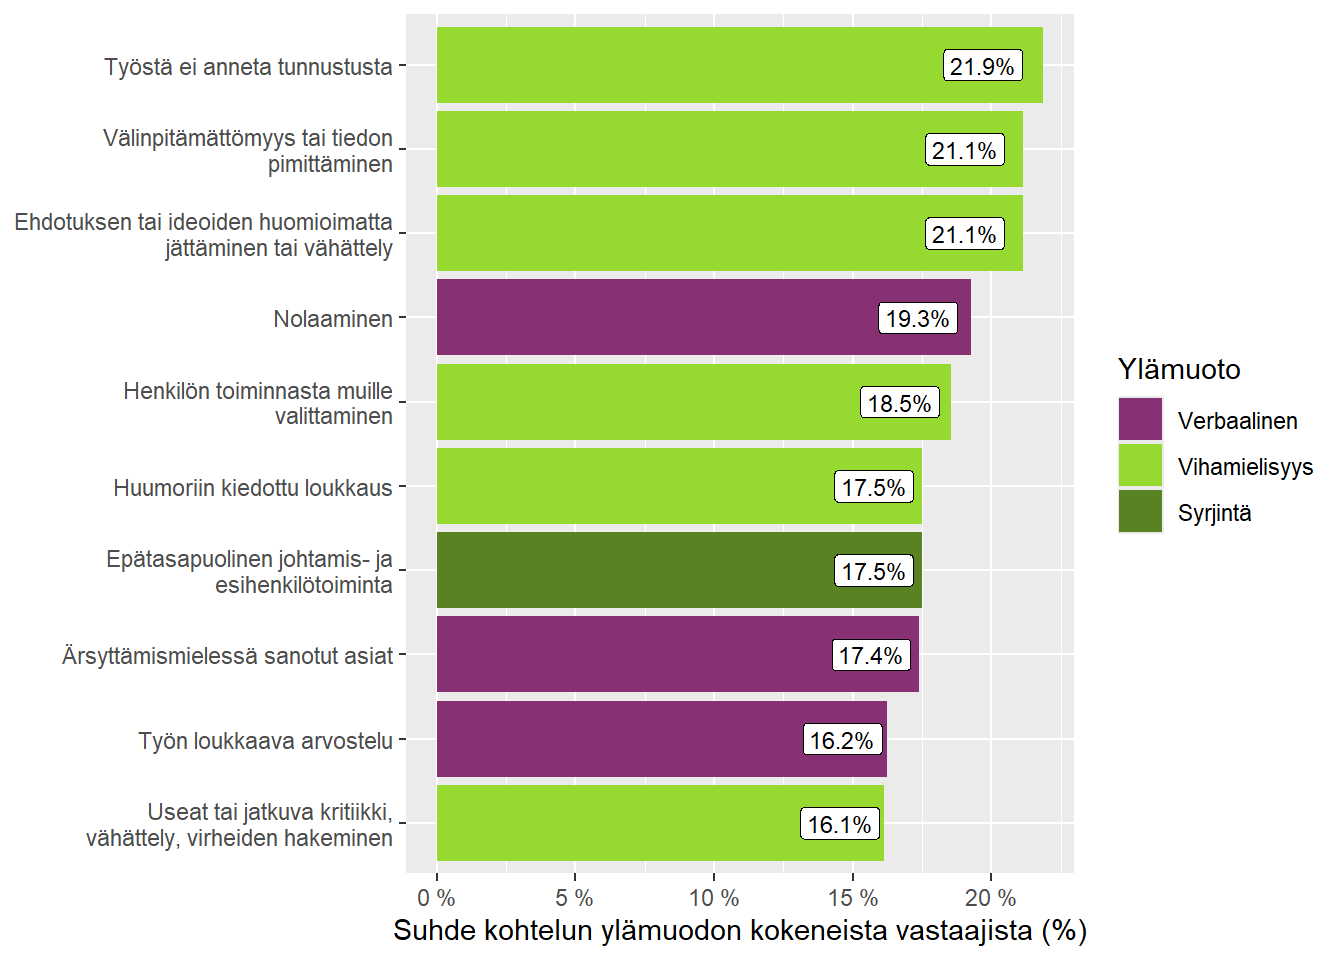
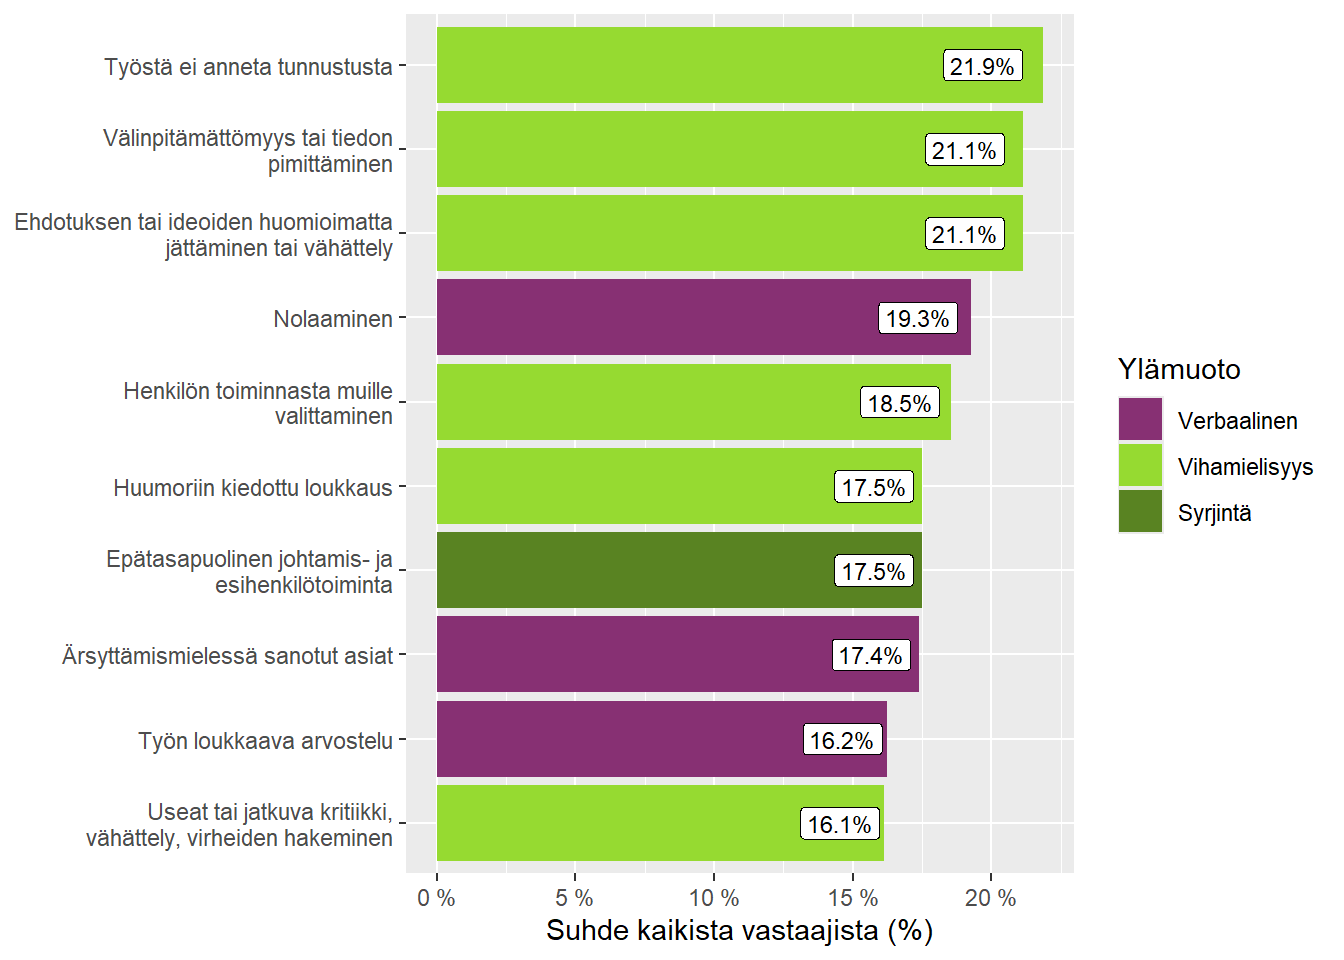
Korjaa yleisimpien alamuotojen kuvioiden otsikot

Changed region(s): [[0.2812, 0.9375, 0.8125, 1.0]]

diff --git a/docs/esiintyvyys.html b/docs/esiintyvyys.html
@@ -1628,7 +1628,7 @@ pre > code.sourceCode > span > a:first-child::before { text-decoration: underlin
 <span id="cb10-163"><a href="#cb10-163" aria-hidden="true" tabindex="-1"></a>    )</span>
 <span id="cb10-164"><a href="#cb10-164" aria-hidden="true" tabindex="-1"></a>  )</span>
 <span id="cb10-165"><a href="#cb10-165" aria-hidden="true" tabindex="-1"></a></span>
-<span id="cb10-166"><a href="#cb10-166" aria-hidden="true" tabindex="-1"></a><span class="co"># Sisäisen kohtelun kymmenen yleisintä kokemusmuotoa (% kohtelumuodon kokeneista vastaajista)</span></span>
+<span id="cb10-166"><a href="#cb10-166" aria-hidden="true" tabindex="-1"></a><span class="co"># Sisäisen kohtelun kymmenen yleisintä kokemusmuotoa</span></span>
 <span id="cb10-167"><a href="#cb10-167" aria-hidden="true" tabindex="-1"></a>yleisimmat.sisa <span class="sc">|&gt;</span></span>
 <span id="cb10-168"><a href="#cb10-168" aria-hidden="true" tabindex="-1"></a>  <span class="fu">ggplot</span>(<span class="fu">aes</span>(</span>
 <span id="cb10-169"><a href="#cb10-169" aria-hidden="true" tabindex="-1"></a>    <span class="at">x =</span> prop,</span>
@@ -1641,7 +1641,7 @@ pre > code.sourceCode > span > a:first-child::before { text-decoration: underlin
 <span id="cb10-176"><a href="#cb10-176" aria-hidden="true" tabindex="-1"></a>    <span class="at">decimal.mark =</span> <span class="st">","</span></span>
 <span id="cb10-177"><a href="#cb10-177" aria-hidden="true" tabindex="-1"></a>  )) <span class="sc">+</span> </span>
 <span id="cb10-178"><a href="#cb10-178" aria-hidden="true" tabindex="-1"></a>  <span class="fu">labs</span>(</span>
-<span id="cb10-179"><a href="#cb10-179" aria-hidden="true" tabindex="-1"></a>    <span class="at">x =</span> <span class="st">"Suhde kohtelun ylämuodon kokeneista vastaajista (%)"</span>,</span>
+<span id="cb10-179"><a href="#cb10-179" aria-hidden="true" tabindex="-1"></a>    <span class="at">x =</span> <span class="st">"Suhde kaikista vastaajista (%)"</span>,</span>
 <span id="cb10-180"><a href="#cb10-180" aria-hidden="true" tabindex="-1"></a>    <span class="at">fill =</span> <span class="st">"Ylämuoto"</span></span>
 <span id="cb10-181"><a href="#cb10-181" aria-hidden="true" tabindex="-1"></a>  ) <span class="sc">+</span> </span>
 <span id="cb10-182"><a href="#cb10-182" aria-hidden="true" tabindex="-1"></a>  <span class="fu">theme</span>(<span class="at">axis.title.y =</span> <span class="fu">element_blank</span>()) <span class="sc">+</span> </span>
@@ -1805,7 +1805,7 @@ pre > code.sourceCode > span > a:first-child::before { text-decoration: underlin
 <span id="cb10-340"><a href="#cb10-340" aria-hidden="true" tabindex="-1"></a>    )</span>
 <span id="cb10-341"><a href="#cb10-341" aria-hidden="true" tabindex="-1"></a>  )</span>
 <span id="cb10-342"><a href="#cb10-342" aria-hidden="true" tabindex="-1"></a></span>
-<span id="cb10-343"><a href="#cb10-343" aria-hidden="true" tabindex="-1"></a><span class="co"># Ulkoisen kohtelun kymmenen yleisintä kokemusmuotoa (% kohtelumuodon kokeneista vastaajista)</span></span>
+<span id="cb10-343"><a href="#cb10-343" aria-hidden="true" tabindex="-1"></a><span class="co"># Ulkoisen kohtelun kymmenen yleisintä kokemusmuotoa</span></span>
 <span id="cb10-344"><a href="#cb10-344" aria-hidden="true" tabindex="-1"></a>yleisimmat.ulko <span class="sc">|&gt;</span></span>
 <span id="cb10-345"><a href="#cb10-345" aria-hidden="true" tabindex="-1"></a>  <span class="fu">ggplot</span>(<span class="fu">aes</span>(</span>
 <span id="cb10-346"><a href="#cb10-346" aria-hidden="true" tabindex="-1"></a>    <span class="at">x =</span> prop,</span>
@@ -1818,7 +1818,7 @@ pre > code.sourceCode > span > a:first-child::before { text-decoration: underlin
 <span id="cb10-353"><a href="#cb10-353" aria-hidden="true" tabindex="-1"></a>    <span class="at">decimal.mark =</span> <span class="st">","</span></span>
 <span id="cb10-354"><a href="#cb10-354" aria-hidden="true" tabindex="-1"></a>  )) <span class="sc">+</span> </span>
 <span id="cb10-355"><a href="#cb10-355" aria-hidden="true" tabindex="-1"></a>  <span class="fu">labs</span>(</span>
-<span id="cb10-356"><a href="#cb10-356" aria-hidden="true" tabindex="-1"></a>    <span class="at">x =</span> <span class="st">"Suhde kohtelun ylämuodon kokeneista vastaajista (%)"</span>,</span>
+<span id="cb10-356"><a href="#cb10-356" aria-hidden="true" tabindex="-1"></a>    <span class="at">x =</span> <span class="st">"Suhde kaikista vastaajista (%)"</span>,</span>
 <span id="cb10-357"><a href="#cb10-357" aria-hidden="true" tabindex="-1"></a>    <span class="at">fill =</span> <span class="st">"Ylämuoto"</span></span>
 <span id="cb10-358"><a href="#cb10-358" aria-hidden="true" tabindex="-1"></a>  ) <span class="sc">+</span> </span>
 <span id="cb10-359"><a href="#cb10-359" aria-hidden="true" tabindex="-1"></a>  <span class="fu">theme</span>(<span class="at">axis.title.y =</span> <span class="fu">element_blank</span>()) <span class="sc">+</span> </span>
@@ -3331,7 +3331,7 @@ pre > code.sourceCode > span > a:first-child::before { text-decoration: underlin
 <span id="cb25-164"><a href="#cb25-164" aria-hidden="true" tabindex="-1"></a>    )</span>
 <span id="cb25-165"><a href="#cb25-165" aria-hidden="true" tabindex="-1"></a>  )</span>
 <span id="cb25-166"><a href="#cb25-166" aria-hidden="true" tabindex="-1"></a></span>
-<span id="cb25-167"><a href="#cb25-167" aria-hidden="true" tabindex="-1"></a><span class="co"># Sisäisen kohtelun kymmenen yleisintä kokemusmuotoa (% kohtelumuodon havanneista vastaajista)</span></span>
+<span id="cb25-167"><a href="#cb25-167" aria-hidden="true" tabindex="-1"></a><span class="co"># Sisäisen kohtelun kymmenen yleisintä kokemusmuotoa</span></span>
 <span id="cb25-168"><a href="#cb25-168" aria-hidden="true" tabindex="-1"></a>yleisimmat.sisa <span class="sc">|&gt;</span></span>
 <span id="cb25-169"><a href="#cb25-169" aria-hidden="true" tabindex="-1"></a>  <span class="fu">ggplot</span>(<span class="fu">aes</span>(</span>
 <span id="cb25-170"><a href="#cb25-170" aria-hidden="true" tabindex="-1"></a>    <span class="at">x =</span> prop,</span>
@@ -3344,7 +3344,7 @@ pre > code.sourceCode > span > a:first-child::before { text-decoration: underlin
 <span id="cb25-177"><a href="#cb25-177" aria-hidden="true" tabindex="-1"></a>    <span class="at">decimal.mark =</span> <span class="st">","</span></span>
 <span id="cb25-178"><a href="#cb25-178" aria-hidden="true" tabindex="-1"></a>  )) <span class="sc">+</span> </span>
 <span id="cb25-179"><a href="#cb25-179" aria-hidden="true" tabindex="-1"></a>  <span class="fu">labs</span>(</span>
-<span id="cb25-180"><a href="#cb25-180" aria-hidden="true" tabindex="-1"></a>    <span class="at">x =</span> <span class="st">"Suhde kohtelun ylämuodon havanneista vastaajista (%)"</span>,</span>
+<span id="cb25-180"><a href="#cb25-180" aria-hidden="true" tabindex="-1"></a>    <span class="at">x =</span> <span class="st">"Suhde kaikista vastaajista (%)"</span>,</span>
 <span id="cb25-181"><a href="#cb25-181" aria-hidden="true" tabindex="-1"></a>    <span class="at">fill =</span> <span class="st">"Ylämuoto"</span></span>
 <span id="cb25-182"><a href="#cb25-182" aria-hidden="true" tabindex="-1"></a>  ) <span class="sc">+</span> </span>
 <span id="cb25-183"><a href="#cb25-183" aria-hidden="true" tabindex="-1"></a>  <span class="fu">theme</span>(<span class="at">axis.title.y =</span> <span class="fu">element_blank</span>()) <span class="sc">+</span> </span>
@@ -3508,7 +3508,7 @@ pre > code.sourceCode > span > a:first-child::before { text-decoration: underlin
 <span id="cb25-341"><a href="#cb25-341" aria-hidden="true" tabindex="-1"></a>    )</span>
 <span id="cb25-342"><a href="#cb25-342" aria-hidden="true" tabindex="-1"></a>  )</span>
 <span id="cb25-343"><a href="#cb25-343" aria-hidden="true" tabindex="-1"></a></span>
-<span id="cb25-344"><a href="#cb25-344" aria-hidden="true" tabindex="-1"></a><span class="co"># Ulkoisen kohtelun kymmenen yleisintä kokemusmuotoa (% kohtelumuodon havanneista vastaajista)</span></span>
+<span id="cb25-344"><a href="#cb25-344" aria-hidden="true" tabindex="-1"></a><span class="co"># Ulkoisen kohtelun kymmenen yleisintä kokemusmuotoa</span></span>
 <span id="cb25-345"><a href="#cb25-345" aria-hidden="true" tabindex="-1"></a>yleisimmat.ulko <span class="sc">|&gt;</span></span>
 <span id="cb25-346"><a href="#cb25-346" aria-hidden="true" tabindex="-1"></a>  <span class="fu">ggplot</span>(<span class="fu">aes</span>(</span>
 <span id="cb25-347"><a href="#cb25-347" aria-hidden="true" tabindex="-1"></a>    <span class="at">x =</span> prop,</span>
@@ -3521,7 +3521,7 @@ pre > code.sourceCode > span > a:first-child::before { text-decoration: underlin
 <span id="cb25-354"><a href="#cb25-354" aria-hidden="true" tabindex="-1"></a>    <span class="at">decimal.mark =</span> <span class="st">","</span></span>
 <span id="cb25-355"><a href="#cb25-355" aria-hidden="true" tabindex="-1"></a>  )) <span class="sc">+</span> </span>
 <span id="cb25-356"><a href="#cb25-356" aria-hidden="true" tabindex="-1"></a>  <span class="fu">labs</span>(</span>
-<span id="cb25-357"><a href="#cb25-357" aria-hidden="true" tabindex="-1"></a>    <span class="at">x =</span> <span class="st">"Suhde kohtelun ylämuodon havanneista vastaajista (%)"</span>,</span>
+<span id="cb25-357"><a href="#cb25-357" aria-hidden="true" tabindex="-1"></a>    <span class="at">x =</span> <span class="st">"Suhde kaikista vastaajista (%)"</span>,</span>
 <span id="cb25-358"><a href="#cb25-358" aria-hidden="true" tabindex="-1"></a>    <span class="at">fill =</span> <span class="st">"Ylämuoto"</span></span>
 <span id="cb25-359"><a href="#cb25-359" aria-hidden="true" tabindex="-1"></a>  ) <span class="sc">+</span> </span>
 <span id="cb25-360"><a href="#cb25-360" aria-hidden="true" tabindex="-1"></a>  <span class="fu">theme</span>(<span class="at">axis.title.y =</span> <span class="fu">element_blank</span>()) <span class="sc">+</span> </span>
@@ -5942,7 +5942,7 @@ window.document.addEventListener("DOMContentLoaded", function (event) {
 <span id="cb40-796"><a href="#cb40-796" aria-hidden="true" tabindex="-1"></a>    )</span>
 <span id="cb40-797"><a href="#cb40-797" aria-hidden="true" tabindex="-1"></a>  )</span>
 <span id="cb40-798"><a href="#cb40-798" aria-hidden="true" tabindex="-1"></a></span>
-<span id="cb40-799"><a href="#cb40-799" aria-hidden="true" tabindex="-1"></a><span class="co"># Sisäisen kohtelun kymmenen yleisintä kokemusmuotoa (% kohtelumuodon kokeneista vastaajista)</span></span>
+<span id="cb40-799"><a href="#cb40-799" aria-hidden="true" tabindex="-1"></a><span class="co"># Sisäisen kohtelun kymmenen yleisintä kokemusmuotoa</span></span>
 <span id="cb40-800"><a href="#cb40-800" aria-hidden="true" tabindex="-1"></a>yleisimmat.sisa <span class="sc">|&gt;</span></span>
 <span id="cb40-801"><a href="#cb40-801" aria-hidden="true" tabindex="-1"></a>  <span class="fu">ggplot</span>(<span class="fu">aes</span>(</span>
 <span id="cb40-802"><a href="#cb40-802" aria-hidden="true" tabindex="-1"></a>    <span class="at">x =</span> prop,</span>
@@ -5955,7 +5955,7 @@ window.document.addEventListener("DOMContentLoaded", function (event) {
 <span id="cb40-809"><a href="#cb40-809" aria-hidden="true" tabindex="-1"></a>    <span class="at">decimal.mark =</span> <span class="st">","</span></span>
 <span id="cb40-810"><a href="#cb40-810" aria-hidden="true" tabindex="-1"></a>  )) <span class="sc">+</span> </span>
 <span id="cb40-811"><a href="#cb40-811" aria-hidden="true" tabindex="-1"></a>  <span class="fu">labs</span>(</span>
-<span id="cb40-812"><a href="#cb40-812" aria-hidden="true" tabindex="-1"></a>    <span class="at">x =</span> <span class="st">"Suhde kohtelun ylämuodon kokeneista vastaajista (%)"</span>,</span>
+<span id="cb40-812"><a href="#cb40-812" aria-hidden="true" tabindex="-1"></a>    <span class="at">x =</span> <span class="st">"Suhde kaikista vastaajista (%)"</span>,</span>
 <span id="cb40-813"><a href="#cb40-813" aria-hidden="true" tabindex="-1"></a>    <span class="at">fill =</span> <span class="st">"Ylämuoto"</span></span>
 <span id="cb40-814"><a href="#cb40-814" aria-hidden="true" tabindex="-1"></a>  ) <span class="sc">+</span> </span>
 <span id="cb40-815"><a href="#cb40-815" aria-hidden="true" tabindex="-1"></a>  <span class="fu">theme</span>(<span class="at">axis.title.y =</span> <span class="fu">element_blank</span>()) <span class="sc">+</span> </span>
@@ -6119,7 +6119,7 @@ window.document.addEventListener("DOMContentLoaded", function (event) {
 <span id="cb40-973"><a href="#cb40-973" aria-hidden="true" tabindex="-1"></a>    )</span>
 <span id="cb40-974"><a href="#cb40-974" aria-hidden="true" tabindex="-1"></a>  )</span>
 <span id="cb40-975"><a href="#cb40-975" aria-hidden="true" tabindex="-1"></a></span>
-<span id="cb40-976"><a href="#cb40-976" aria-hidden="true" tabindex="-1"></a><span class="co"># Ulkoisen kohtelun kymmenen yleisintä kokemusmuotoa (% kohtelumuodon kokeneista vastaajista)</span></span>
+<span id="cb40-976"><a href="#cb40-976" aria-hidden="true" tabindex="-1"></a><span class="co"># Ulkoisen kohtelun kymmenen yleisintä kokemusmuotoa</span></span>
 <span id="cb40-977"><a href="#cb40-977" aria-hidden="true" tabindex="-1"></a>yleisimmat.ulko <span class="sc">|&gt;</span></span>
 <span id="cb40-978"><a href="#cb40-978" aria-hidden="true" tabindex="-1"></a>  <span class="fu">ggplot</span>(<span class="fu">aes</span>(</span>
 <span id="cb40-979"><a href="#cb40-979" aria-hidden="true" tabindex="-1"></a>    <span class="at">x =</span> prop,</span>
@@ -6132,7 +6132,7 @@ window.document.addEventListener("DOMContentLoaded", function (event) {
 <span id="cb40-986"><a href="#cb40-986" aria-hidden="true" tabindex="-1"></a>    <span class="at">decimal.mark =</span> <span class="st">","</span></span>
 <span id="cb40-987"><a href="#cb40-987" aria-hidden="true" tabindex="-1"></a>  )) <span class="sc">+</span> </span>
 <span id="cb40-988"><a href="#cb40-988" aria-hidden="true" tabindex="-1"></a>  <span class="fu">labs</span>(</span>
-<span id="cb40-989"><a href="#cb40-989" aria-hidden="true" tabindex="-1"></a>    <span class="at">x =</span> <span class="st">"Suhde kohtelun ylämuodon kokeneista vastaajista (%)"</span>,</span>
+<span id="cb40-989"><a href="#cb40-989" aria-hidden="true" tabindex="-1"></a>    <span class="at">x =</span> <span class="st">"Suhde kaikista vastaajista (%)"</span>,</span>
 <span id="cb40-990"><a href="#cb40-990" aria-hidden="true" tabindex="-1"></a>    <span class="at">fill =</span> <span class="st">"Ylämuoto"</span></span>
 <span id="cb40-991"><a href="#cb40-991" aria-hidden="true" tabindex="-1"></a>  ) <span class="sc">+</span> </span>
 <span id="cb40-992"><a href="#cb40-992" aria-hidden="true" tabindex="-1"></a>  <span class="fu">theme</span>(<span class="at">axis.title.y =</span> <span class="fu">element_blank</span>()) <span class="sc">+</span> </span>
@@ -7564,7 +7564,7 @@ window.document.addEventListener("DOMContentLoaded", function (event) {
 <span id="cb40-2448"><a href="#cb40-2448" aria-hidden="true" tabindex="-1"></a>    )</span>
 <span id="cb40-2449"><a href="#cb40-2449" aria-hidden="true" tabindex="-1"></a>  )</span>
 <span id="cb40-2450"><a href="#cb40-2450" aria-hidden="true" tabindex="-1"></a></span>
-<span id="cb40-2451"><a href="#cb40-2451" aria-hidden="true" tabindex="-1"></a><span class="co"># Sisäisen kohtelun kymmenen yleisintä kokemusmuotoa (% kohtelumuodon havanneista vastaajista)</span></span>
+<span id="cb40-2451"><a href="#cb40-2451" aria-hidden="true" tabindex="-1"></a><span class="co"># Sisäisen kohtelun kymmenen yleisintä kokemusmuotoa</span></span>
 <span id="cb40-2452"><a href="#cb40-2452" aria-hidden="true" tabindex="-1"></a>yleisimmat.sisa <span class="sc">|&gt;</span></span>
 <span id="cb40-2453"><a href="#cb40-2453" aria-hidden="true" tabindex="-1"></a>  <span class="fu">ggplot</span>(<span class="fu">aes</span>(</span>
 <span id="cb40-2454"><a href="#cb40-2454" aria-hidden="true" tabindex="-1"></a>    <span class="at">x =</span> prop,</span>
@@ -7577,7 +7577,7 @@ window.document.addEventListener("DOMContentLoaded", function (event) {
 <span id="cb40-2461"><a href="#cb40-2461" aria-hidden="true" tabindex="-1"></a>    <span class="at">decimal.mark =</span> <span class="st">","</span></span>
 <span id="cb40-2462"><a href="#cb40-2462" aria-hidden="true" tabindex="-1"></a>  )) <span class="sc">+</span> </span>
 <span id="cb40-2463"><a href="#cb40-2463" aria-hidden="true" tabindex="-1"></a>  <span class="fu">labs</span>(</span>
-<span id="cb40-2464"><a href="#cb40-2464" aria-hidden="true" tabindex="-1"></a>    <span class="at">x =</span> <span class="st">"Suhde kohtelun ylämuodon havanneista vastaajista (%)"</span>,</span>
+<span id="cb40-2464"><a href="#cb40-2464" aria-hidden="true" tabindex="-1"></a>    <span class="at">x =</span> <span class="st">"Suhde kaikista vastaajista (%)"</span>,</span>
 <span id="cb40-2465"><a href="#cb40-2465" aria-hidden="true" tabindex="-1"></a>    <span class="at">fill =</span> <span class="st">"Ylämuoto"</span></span>
 <span id="cb40-2466"><a href="#cb40-2466" aria-hidden="true" tabindex="-1"></a>  ) <span class="sc">+</span> </span>
 <span id="cb40-2467"><a href="#cb40-2467" aria-hidden="true" tabindex="-1"></a>  <span class="fu">theme</span>(<span class="at">axis.title.y =</span> <span class="fu">element_blank</span>()) <span class="sc">+</span> </span>
@@ -7741,7 +7741,7 @@ window.document.addEventListener("DOMContentLoaded", function (event) {
 <span id="cb40-2625"><a href="#cb40-2625" aria-hidden="true" tabindex="-1"></a>    )</span>
 <span id="cb40-2626"><a href="#cb40-2626" aria-hidden="true" tabindex="-1"></a>  )</span>
 <span id="cb40-2627"><a href="#cb40-2627" aria-hidden="true" tabindex="-1"></a></span>
-<span id="cb40-2628"><a href="#cb40-2628" aria-hidden="true" tabindex="-1"></a><span class="co"># Ulkoisen kohtelun kymmenen yleisintä kokemusmuotoa (% kohtelumuodon havanneista vastaajista)</span></span>
+<span id="cb40-2628"><a href="#cb40-2628" aria-hidden="true" tabindex="-1"></a><span class="co"># Ulkoisen kohtelun kymmenen yleisintä kokemusmuotoa</span></span>
 <span id="cb40-2629"><a href="#cb40-2629" aria-hidden="true" tabindex="-1"></a>yleisimmat.ulko <span class="sc">|&gt;</span></span>
 <span id="cb40-2630"><a href="#cb40-2630" aria-hidden="true" tabindex="-1"></a>  <span class="fu">ggplot</span>(<span class="fu">aes</span>(</span>
 <span id="cb40-2631"><a href="#cb40-2631" aria-hidden="true" tabindex="-1"></a>    <span class="at">x =</span> prop,</span>
@@ -7754,7 +7754,7 @@ window.document.addEventListener("DOMContentLoaded", function (event) {
 <span id="cb40-2638"><a href="#cb40-2638" aria-hidden="true" tabindex="-1"></a>    <span class="at">decimal.mark =</span> <span class="st">","</span></span>
 <span id="cb40-2639"><a href="#cb40-2639" aria-hidden="true" tabindex="-1"></a>  )) <span class="sc">+</span> </span>
 <span id="cb40-2640"><a href="#cb40-2640" aria-hidden="true" tabindex="-1"></a>  <span class="fu">labs</span>(</span>
-<span id="cb40-2641"><a href="#cb40-2641" aria-hidden="true" tabindex="-1"></a>    <span class="at">x =</span> <span class="st">"Suhde kohtelun ylämuodon havanneista vastaajista (%)"</span>,</span>
+<span id="cb40-2641"><a href="#cb40-2641" aria-hidden="true" tabindex="-1"></a>    <span class="at">x =</span> <span class="st">"Suhde kaikista vastaajista (%)"</span>,</span>
 <span id="cb40-2642"><a href="#cb40-2642" aria-hidden="true" tabindex="-1"></a>    <span class="at">fill =</span> <span class="st">"Ylämuoto"</span></span>
 <span id="cb40-2643"><a href="#cb40-2643" aria-hidden="true" tabindex="-1"></a>  ) <span class="sc">+</span> </span>
 <span id="cb40-2644"><a href="#cb40-2644" aria-hidden="true" tabindex="-1"></a>  <span class="fu">theme</span>(<span class="at">axis.title.y =</span> <span class="fu">element_blank</span>()) <span class="sc">+</span> </span>
